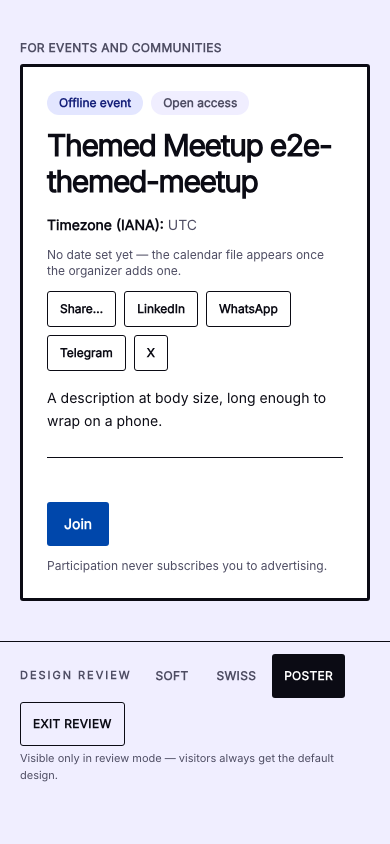
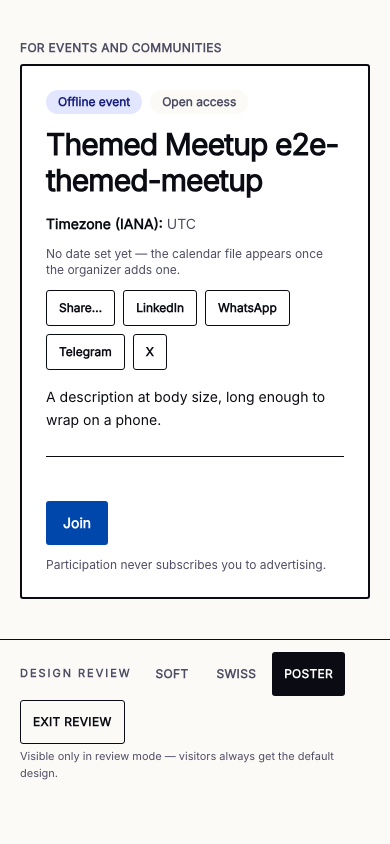
fix(design): lighten the poster theme — it read as heavy, not editorial
The owner looked at all three themes on a phone and reported the dark one as
disliked. Measured cause: poster carried a cool lavender canvas, 3px near-black
card rules, black 'looking for' chips and 900-weight headings, so the page read
as heavy rather than editorial. Tokens only, no markup change:

  canvas #f0eeff -> #fbfaf7 (warm paper, as the approved mockup had)
  card rule 3px -> 2px
  'looking for' chips #0b0b14 -> cobalt #0047ab
  heading weight 900 -> 700, tracking -0.045em -> -0.03em

Contract test still passes (every theme defines exactly the token list) and the
theme e2e re-ran axe plus the 360/390 overflow checks across all three themes: 3
passed. Screenshots re-captured.

diff --git a/src/app/globals.css b/src/app/globals.css
@@ -169,7 +169,7 @@ html[data-theme="swiss"] {
      pine #16207a on mint #e3e6ff 11.19:1 · white on offer #0047ab 8.44:1
      white on need #0b0b14 19.59:1 · line(=ink) on surface 19.59:1 */
 html[data-theme="poster"] {
-  --t-canvas: #f0eeff;
+  --t-canvas: #fbfaf7;
   --t-surface: #fff;
   --t-ink: #0b0b14;
   --t-muted: #4e4d63;
@@ -184,9 +184,9 @@ html[data-theme="poster"] {
   --t-mint: #e3e6ff;
   --t-offer: #0047ab;
   --t-offer-ink: #fff;
-  --t-need: #0b0b14;
+  --t-need: #0047ab;
   --t-need-ink: #fff;
-  --t-rule-card: 3px;
+  --t-rule-card: 2px;
   --t-radius-md: 3px;
   --t-radius-lg: 3px;
   --t-radius-xl: 3px;
@@ -194,8 +194,8 @@ html[data-theme="poster"] {
   --t-radius-3xl: 3px;
   --t-radius-full: calc(infinity * 1px);
   --t-shadow-card: 0 0 #0000;
-  --t-heading-weight: 900;
-  --t-heading-tracking: -0.045em;
+  --t-heading-weight: 700;
+  --t-heading-tracking: -0.03em;
 }
 
 html {
